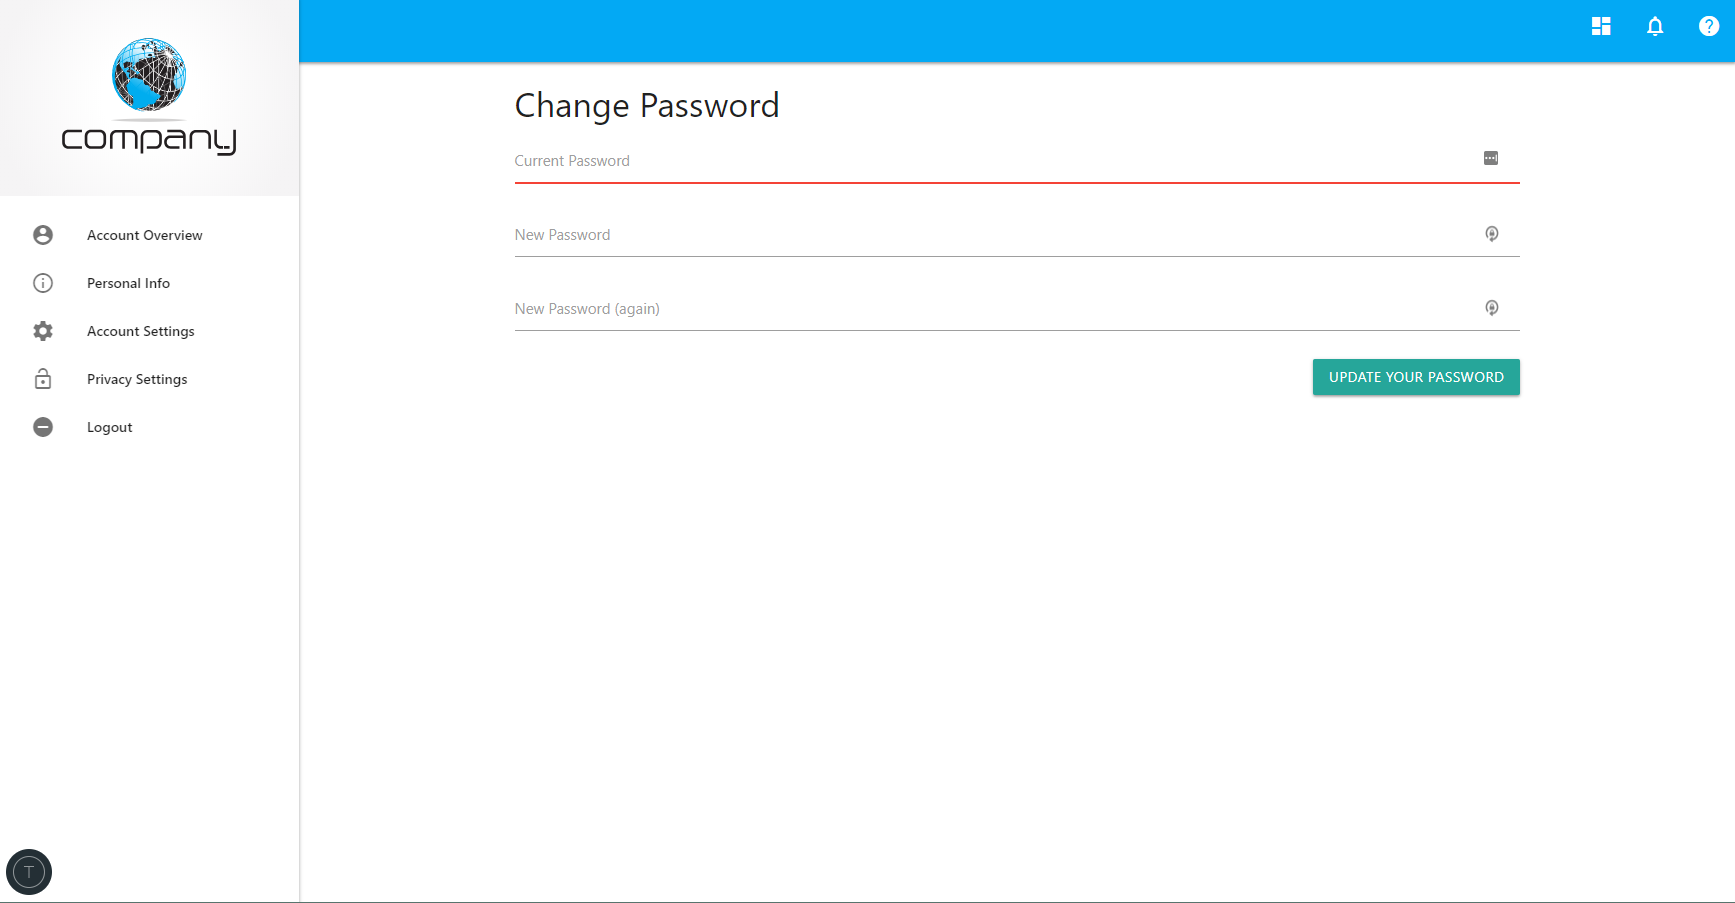
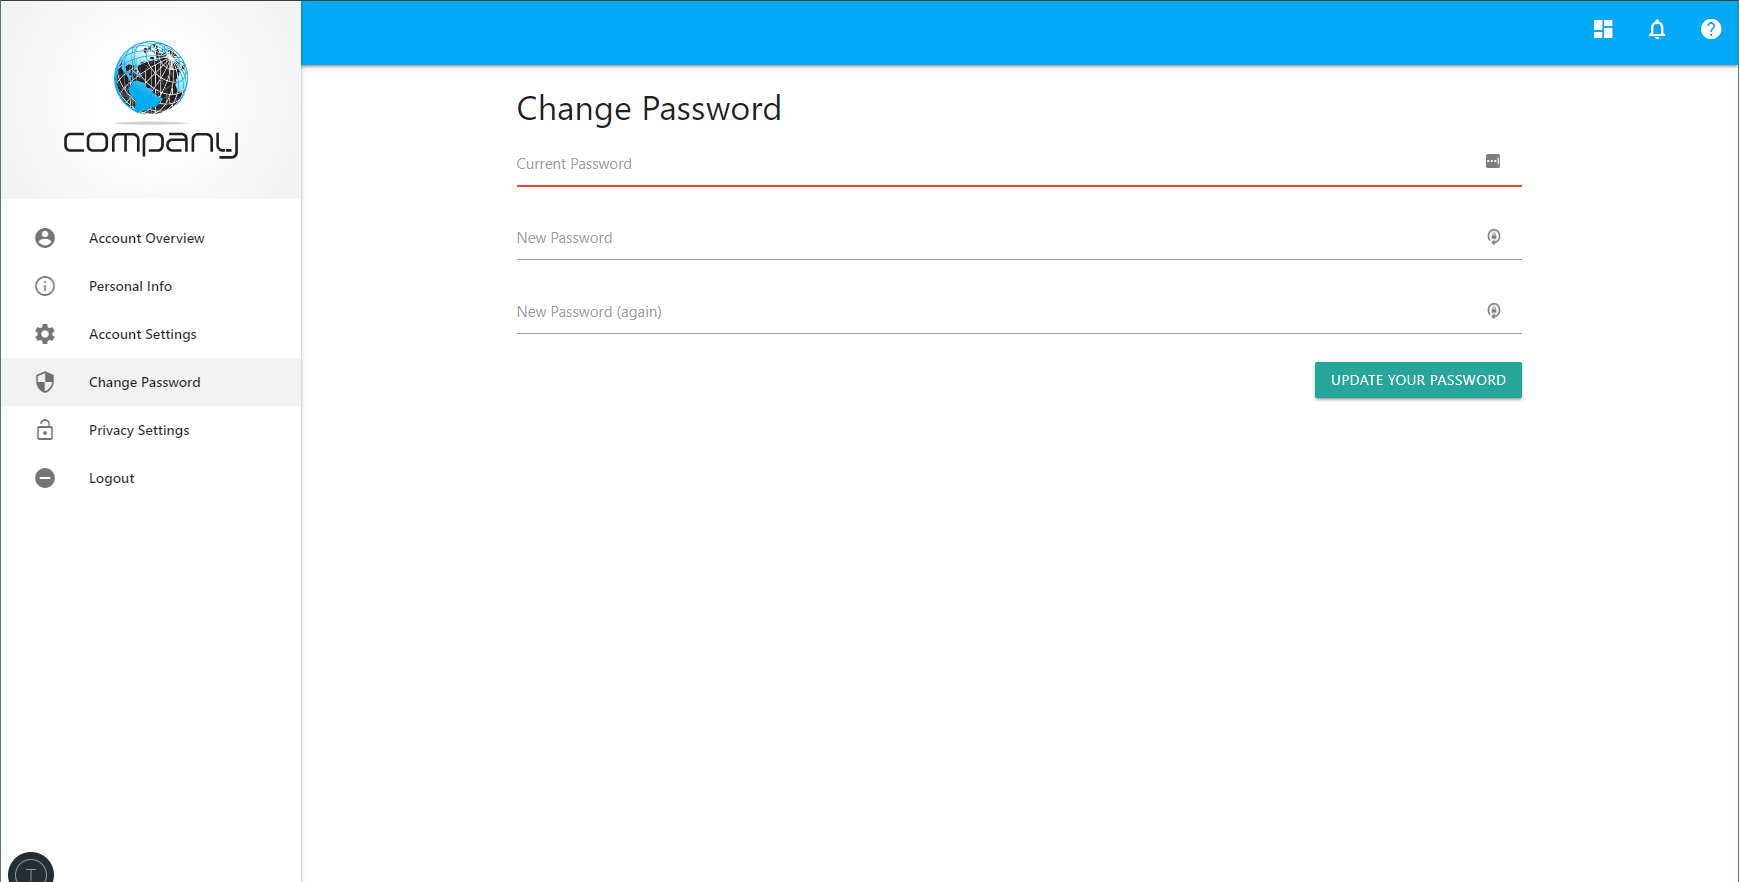
Added mobile change password image

diff --git a/imports/ui/layouts/account/pages/nav-account/nav-account.js b/imports/ui/layouts/account/pages/nav-account/nav-account.js
@@ -5,6 +5,10 @@ import { $ } from 'meteor/jquery';
 
 import './nav-account.html';
 
+Template.navAccount.onCreated( function() {
+    this.subscribe( 'Meteor.users.mydetails' );
+} );
+
 Template.navAccount.events( {
     'click .logout': ( ) => {
         AccountsTemplates.logout();

diff --git a/imports/ui/layouts/account/pages/account-overview/account-overview.js b/imports/ui/layouts/account/pages/account-overview/account-overview.js
@@ -5,11 +5,6 @@ import './account-overview.css';
 import './account-overview.html';
 
 
-Template.accountOverview.onCreated( function() {
-    this.subscribe( 'Meteor.users.mydetails' );
-} );
-
-
 Template.accountOverview.helpers( {
     user() {
         if ( Meteor.user() ) {

diff --git a/README.md b/README.md
@@ -13,12 +13,14 @@ I have included:
 * Responsive sidenav.
 * App broken into unauthorized, account, and app sections
 
-![alt text][change-password]
+## Account Management
+![alt text][change-password][change-password-mobile]
 
-#Responsive User Accounts
+## Responsive User Accounts
 ![alt text][sign-in]
 
 [change-password]: https://github.com/DeannaBonds/meteor-1.8-materialize-blaze-boilerplate/raw/master/images/change-password.png "Change Password"
+[change-password-mobile]: https://github.com/DeannaBonds/meteor-1.8-materialize-blaze-boilerplate/raw/master/images/change-password-mobile.png "Change Password"
 [sign-in]: https://github.com/DeannaBonds/meteor-1.8-materialize-blaze-boilerplate/raw/master/images/sign-in.png "Sign In"
 
 ## Todo
